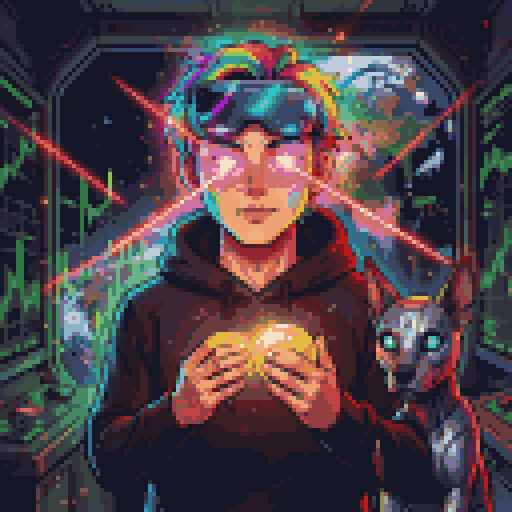
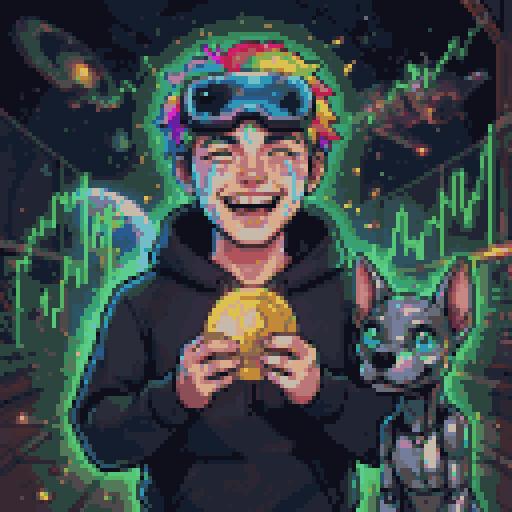
Pose per item (10 templates, same head framing); Tears of Joy replaces Laser Eyes; new pose examples on site

diff --git a/worker/public/index.html b/worker/public/index.html
@@ -50,8 +50,8 @@
 
 <div class="ticker ticker-dark" aria-hidden="true">
   <div class="ticker-track">
-    <span>1,000 wayfarers</span><span>built on ETH</span><span>no two alike</span><span>rarer means wilder</span><span>laser eyes included</span><span>touch grass</span><span>gm</span>
-    <span>1,000 wayfarers</span><span>built on ETH</span><span>no two alike</span><span>rarer means wilder</span><span>laser eyes included</span><span>touch grass</span><span>gm</span>
+    <span>1,000 wayfarers</span><span>built on ETH</span><span>no two alike</span><span>rarer means wilder</span><span>tinfoil hats included</span><span>touch grass</span><span>gm</span>
+    <span>1,000 wayfarers</span><span>built on ETH</span><span>no two alike</span><span>rarer means wilder</span><span>tinfoil hats included</span><span>touch grass</span><span>gm</span>
   </div>
 </div>
 
@@ -77,11 +77,11 @@
         <h1 class="logo"><span>Pixel</span><span>Wayfarers</span></h1>
       </div>
       <div class="posters" aria-label="Wanted posters of Pixel Wayfarers">
-        <figure class="poster p1"><img src="/art/sample-01.png" alt="A chef wayfarer with a chicken on a subway platform" width="512" height="512"><figcaption>Chef</figcaption></figure>
-        <figure class="poster p2"><img src="/art/sample-02.png" alt="An epic astronaut wayfarer" width="512" height="512"><figcaption>Astronaut</figcaption></figure>
+        <figure class="poster p1"><img src="/art/sample-01.png" alt="A barista wayfarer waving hello" width="512" height="512"><figcaption>Barista</figcaption></figure>
+        <figure class="poster p2"><img src="/art/sample-02.png" alt="An office worker wayfarer strumming a guitar" width="512" height="512"><figcaption>Office Worker</figcaption></figure>
         <figure class="poster p3"><img src="/art/poster-legendary.png" alt="The Mayor, a legendary wayfarer" width="512" height="512"><figcaption>The Mayor</figcaption></figure>
-        <figure class="poster p4"><img src="/art/sample-03.png" alt="A scientist wayfarer holding an UP sign" width="512" height="512"><figcaption>Scientist</figcaption></figure>
-        <figure class="poster p5"><img src="/art/sample-04.png" alt="A rare pilot wayfarer in a neon alley" width="512" height="512"><figcaption>Pilot</figcaption></figure>
+        <figure class="poster p4"><img src="/art/sample-03.png" alt="A scientist wayfarer raising a green arrow sign" width="512" height="512"><figcaption>Scientist</figcaption></figure>
+        <figure class="poster p5"><img src="/art/sample-04.png" alt="A rare pilot wayfarer with diamond hands" width="512" height="512"><figcaption>Pilot</figcaption></figure>
       </div>
       <div class="scroll-panel">
         <p class="lede">1,000 cozy pixel folk on Ethereum. Chefs, nurses, pilots, streamers. None of them alike.</p>
@@ -131,25 +131,25 @@
         </article>
         <article class="card c-epic reveal">
           <h3>Epic</h3>
-          <img src="/art/card-epic.png" alt="An epic crypto trader wayfarer with laser eyes" width="512" height="512" loading="lazy">
+          <img src="/art/card-epic.png" alt="An epic crypto trader wayfarer laughing with tears of joy" width="512" height="512" loading="lazy">
           <p class="odds">40 of 1,000</p>
           <p>Streamers, crypto traders, astronauts.</p>
         </article>
         <article class="card c-rare reveal">
           <h3>Rare</h3>
-          <img src="/art/card-rare.png" alt="A rare pro gamer wayfarer" width="512" height="512" loading="lazy">
+          <img src="/art/card-rare.png" alt="A rare wayfarer singing into a gold microphone" width="512" height="512" loading="lazy">
           <p class="odds">100 of 1,000</p>
-          <p>Pilots, surgeons, pro gamers. Diamond grillz.</p>
+          <p>Pilots, surgeons, DJs. Diamond grillz.</p>
         </article>
         <article class="card c-uncommon reveal">
           <h3>Uncommon</h3>
-          <img src="/art/card-uncommon.png" alt="An uncommon photographer wayfarer with a pigeon" width="512" height="512" loading="lazy">
+          <img src="/art/card-uncommon.png" alt="An uncommon student wayfarer with a magnifying glass and a raccoon" width="512" height="512" loading="lazy">
           <p class="odds">250 of 1,000</p>
-          <p>Photographers. Tinfoil hats. City pigeons.</p>
+          <p>Detectives. Tinfoil hats. Chonky raccoons.</p>
         </article>
         <article class="card c-common reveal">
           <h3>Common</h3>
-          <img src="/art/card-common.png" alt="A common nurse wayfarer with a chicken" width="512" height="512" loading="lazy">
+          <img src="/art/card-common.png" alt="A common farmer wayfarer sipping a pumpkin spice latte" width="512" height="512" loading="lazy">
           <p class="odds">600 of 1,000</p>
           <p>Chefs, nurses, bakers. Just out here living.</p>
         </article>

diff --git a/worker/src/index.ts b/worker/src/index.ts
@@ -52,11 +52,13 @@ async function admin(request: Request, env: Env, url: URL): Promise<Response> {
 		const width = Number(url.searchParams.get("w") ?? 1024);
 		const height = Number(url.searchParams.get("h") ?? 1024);
 		// ?template=1 redraws the pose template (the way templated tiers are generated)
+		// ?ref=<R2 key> edits that image with the raw prompt (used to build pose templates)
 		const useTemplate = url.searchParams.get("template") === "1";
-		const ref = useTemplate ? await loadPoseTemplate(env) : undefined;
-		if (useTemplate && !ref) return Response.json({ error: "no pose template in R2" }, { status: 400 });
+		const refKey = url.searchParams.get("ref");
+		const ref = refKey ? await getBytes(env, refKey) : useTemplate ? await loadPoseTemplate(env) : undefined;
+		if ((useTemplate || refKey) && !ref) return Response.json({ error: "reference image not found in R2" }, { status: 400 });
 		const text = await request.text();
-		const prompt = ref ? POSE_INSTRUCTION + text : text;
+		const prompt = useTemplate ? POSE_INSTRUCTION + text : text;
 		const bytes = await generateImage(env, model, prompt, { width, height }, randomSeed(), ref);
 		const key = `marketing/${Date.now()}`;
 		await env.ART.put(key, bytes);
@@ -89,6 +91,11 @@ async function admin(request: Request, env: Env, url: URL): Promise<Response> {
 	}
 
 	return new Response("not found", { status: 404 });
+}
+
+async function getBytes(env: Env, key: string): Promise<Uint8Array | undefined> {
+	const obj = await env.ART.get(key);
+	return obj ? new Uint8Array(await obj.arrayBuffer()) : undefined;
 }
 
 /** "1-50,77" -> ids; empty -> every token. */

diff --git a/worker/src/ai.ts b/worker/src/ai.ts
@@ -13,6 +13,8 @@ export interface Token {
 	traits: Record<string, string>;
 	prompt: string;
 	seed: number;
+	/** pose template name (config/poses/<pose>.png); absent for free-form legendaries */
+	pose?: string;
 }
 
 /** Written by `python pipeline/wayfarers.py roll`, uploaded to R2 as manifest.json. */
@@ -25,11 +27,12 @@ export interface Manifest {
 export const POSE_TEMPLATE_KEY = "template/pose.png";
 export const POSE_INSTRUCTION =
 	"Redraw the gray mannequin in image 0 as the character described below. Keep exactly the same pose, " +
-	"body size, head size, head position, hand position and framing as image 0; the hands hold the item named " +
-	"below. Change only the character, clothing, props and background. Character: ";
+	"body size, head size, head position, arm and hand position and framing as image 0; the gray placeholder " +
+	"object becomes the item named below. Change only the character, clothing, props and background. Character: ";
 
-export async function loadPoseTemplate(env: Env): Promise<Uint8Array | undefined> {
-	const obj = await env.ART.get(POSE_TEMPLATE_KEY);
+/** The token's pose template (arms match its item; head and framing identical across all poses). */
+export async function loadPoseTemplate(env: Env, pose?: string): Promise<Uint8Array | undefined> {
+	const obj = (pose && (await env.ART.get(`template/pose-${pose}.png`))) || (await env.ART.get(POSE_TEMPLATE_KEY));
 	return obj ? new Uint8Array(await obj.arrayBuffer()) : undefined;
 }
 

diff --git a/worker/src/workflow.ts b/worker/src/workflow.ts
@@ -30,6 +30,7 @@ export class GenerateToken extends WorkflowEntrypoint<Env, GenerateParams> {
 				params: tier.params,
 				colors: tier.colors,
 				template: tier.template ?? false,
+				pose: token.pose,
 				prompt: token.prompt,
 				// seeds are picked inside a step so a replay reuses the same one
 				seed: force ? randomSeed() : token.seed,
@@ -46,7 +47,7 @@ export class GenerateToken extends WorkflowEntrypoint<Env, GenerateParams> {
 				// The safety filter sometimes flags a harmless render (3030); a new seed usually passes,
 				// while retrying the same seed never would.
 				// templated tiers are redrawn from the fixed pose so the whole collection shares one framing
-				const ref = plan.template ? await loadPoseTemplate(this.env) : undefined;
+				const ref = plan.template ? await loadPoseTemplate(this.env, plan.pose) : undefined;
 				if (plan.template && !ref) throw new NonRetryableError("pose template missing in R2 (template/pose.png)");
 				const prompt = ref ? POSE_INSTRUCTION + plan.prompt : plan.prompt;
 				const attempts = [

diff --git a/pipeline/wayfarers.py b/pipeline/wayfarers.py
@@ -117,9 +117,11 @@ def cmd_roll(args):
         else:
             sys.exit(f"token {token_id}: no combo differs by {min_diff}+ traits from all others; "
                      "add trait values or lower min_trait_difference")
+        item = next(o for o in cfg["traits"]["Item"] if o["value"] == traits["Item"])
         tokens.append({
             "id": token_id, "tier": tier, "traits": traits,
             "prompt": build_prompt(cfg, tier, fragments),
+            "pose": item.get("pose", "hold"),
             "seed": rng.randrange(2**31),
         })
 
